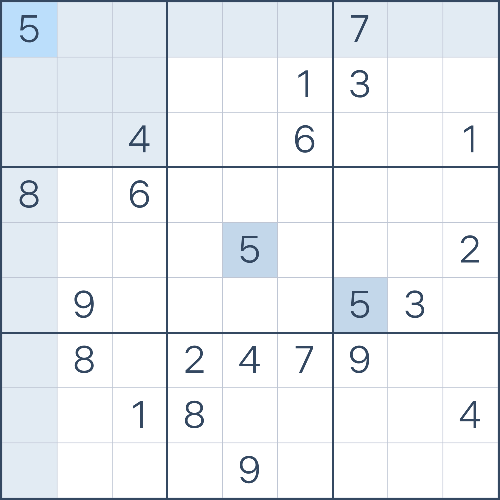
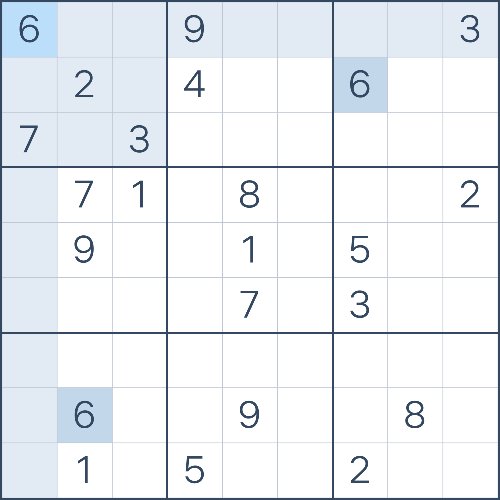
sudokuclassic complete automation

diff --git a/Sudoku (Classic)/sudokuTyper.py b/Sudoku (Classic)/sudokuTyper.py
@@ -1,22 +1,36 @@
-import pygetwindow as gw
 import pyautogui
-import time
 
 class sudokuTyper:
-    def __init__(self, sudokuWebsite):
-        self.sudokuWebsite = self.getSudokuWebsite()
+    def __init__(self, sudoku, sudoku_website):
+        self.sudoku = sudoku
+        self.sudoku_website = sudoku_website
 
-    def getSudokuWebsite(self):
-        for window in gw.getAllTitles():
-            if "Sudoku" in window and "free" in window:
-                sudokuWebsite = gw.getWindowsWithTitle(window)[0]
-        return sudokuWebsite
-
-    def inputSudokuWebsite(self, solution):
-        if not self.sudokuWebsite:
+    def openWebsite(self):
+        if not self.sudoku_website:
             print("Sudoku website not found. Please ensure it is the only tab open.")
+            return False
+        self.sudoku_website.restore()
+        self.sudoku_website.maximize()
+        self.sudoku_website.activate()
+        return True
+    
+    def resetStartingPosition(self):
+        for _ in range(9):
+            pyautogui.press("up")
+            pyautogui.press("left")
+
+    def inputSolution(self):
+        print("Inputting solution...")
+        if not self.openWebsite():
             return
-        
-        self.sudokuWebsite.activate()
-        for i in range(5):
-            pyautogui.press("right")
+        self.resetStartingPosition()
+        for i in range(9):
+            direction = "right" if i%2 == 0 else "left"
+            for j in range(9):
+                if direction == "right":
+                    pyautogui.press(f"{str(self.sudoku[i][j])}")
+                elif direction == "left":
+                    pyautogui.press(f"{str(self.sudoku[i][8-j])}")
+                pyautogui.press(direction)
+            pyautogui.press("down")
+        print("Solution has been inputted!")

diff --git a/Sudoku (Classic)/sudokuReader.py b/Sudoku (Classic)/sudokuReader.py
@@ -4,9 +4,7 @@ import os
 
 class sudokuReader:
     def __init__(self, image):
-        sys.setrecursionlimit(10000)
         self.name = image
-        print("Reading screenshot...")
         self.image = cv2.imread(self.name)
         self.height, self.width, self.channels = self.image.shape
         self.sudoku = []
@@ -28,6 +26,7 @@ class sudokuReader:
         cv2.imwrite(name, image)
     
     def cropImage(self):
+        print("Reading screenshot...")
         top_left, bottom_right = self.getBorderCoordinates()
         if top_left == bottom_right == (-1, -1):
             print("Invalid Image")
@@ -161,6 +160,7 @@ class sudokuReader:
 
     def readGrid(self, folder):
         print("Reading Sudoku...")
+        sys.setrecursionlimit(10000)
         start = [2, 58, 113, 168, 223, 278, 334, 388, 443]
         change = [54, 53, 52, 53, 53, 53, 52, 53, 54]
         numbers_data = self.getNumbersData(folder)

diff --git a/Sudoku (Classic)/main.py b/Sudoku (Classic)/main.py
@@ -4,11 +4,30 @@ from sudokuSolver import sudokuSolver
 from sudokuTyper import sudokuTyper
 
 def main():
+    automated()
+    #manual()
+
+def automated():
     sg = sudokuGetter("Puzzles")
     sg.getSudokuScreenshot()
     sr = sudokuReader(sg.puzzle_directory)
     sr.readGrid("Numbers")
     ss = sudokuSolver(sr.sudoku)
+    ss.solve()
+    st = sudokuTyper(ss.sudoku, sg.sudoku_website)
+    st.inputSolution()
+
+def manual():
+    sudoku = [[0,0,0,0,0,0,0,0,0],
+              [0,0,0,0,0,0,0,0,0],
+              [0,0,0,0,0,0,0,0,0],
+              [0,0,0,0,0,0,0,0,0],
+              [0,0,0,0,0,0,0,0,0],
+              [0,0,0,0,0,0,0,0,0],
+              [0,0,0,0,0,0,0,0,0],
+              [0,0,0,0,0,0,0,0,0],
+              [0,0,0,0,0,0,0,0,0]]
+    ss = sudokuSolver(sudoku)
     ss.solve()
     ss.printSolution()
 

diff --git a/Sudoku (Classic)/sudokuGetter.py b/Sudoku (Classic)/sudokuGetter.py
@@ -39,15 +39,14 @@ class sudokuGetter:
         if not self.sudoku_website:
             print("Sudoku website not found. Please ensure it is the only tab open.")
             return
-        time.sleep(1)
         self.sudoku_website.restore()
         self.sudoku_website.maximize()
         self.sudoku_website.activate()
-        time.sleep(0.5)
+        time.sleep(0.2)
         screenshot = pyautogui.screenshot()
         self.puzzle_directory = f"{self.directory}/puzzle{str(self.getLatestPuzzleNumber())}.png"
         screenshot.save(self.puzzle_directory)
-        time.sleep(0.5)
+        time.sleep(0.2)
         pyautogui.hotkey("alt", "tab")
         print("Website has been screenshotted!")
         print()

diff --git a/Sudoku (Classic)/README.md b/Sudoku (Classic)/README.md
@@ -1,0 +1,6 @@
+# Sudoku (Classic) Solver
+
+How to use:
+- Open https://sudoku.com
+- Select any difficulty
+- Run main.py

diff --git a/README.md b/README.md
@@ -1,2 +1,2 @@
 # Solvers
- Coding solvers for various online games
+Coding automated solvers for various online games
